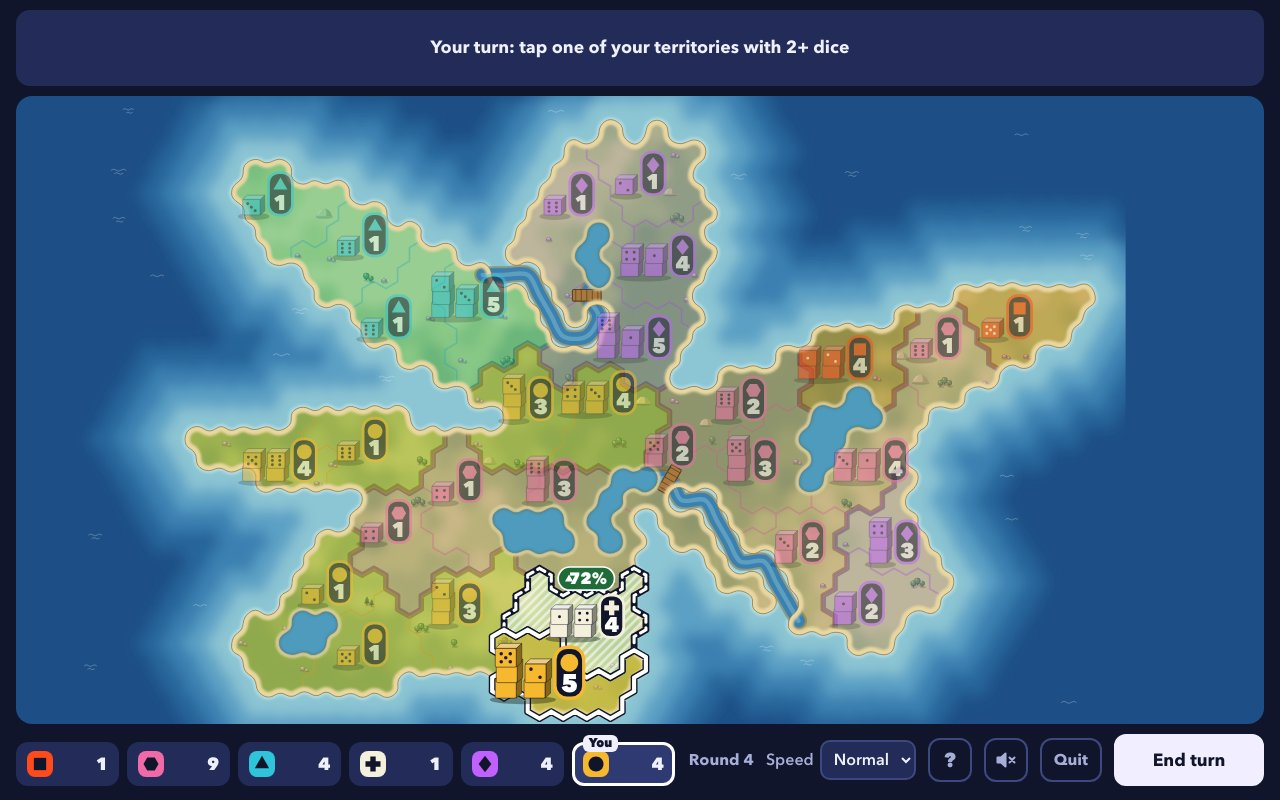
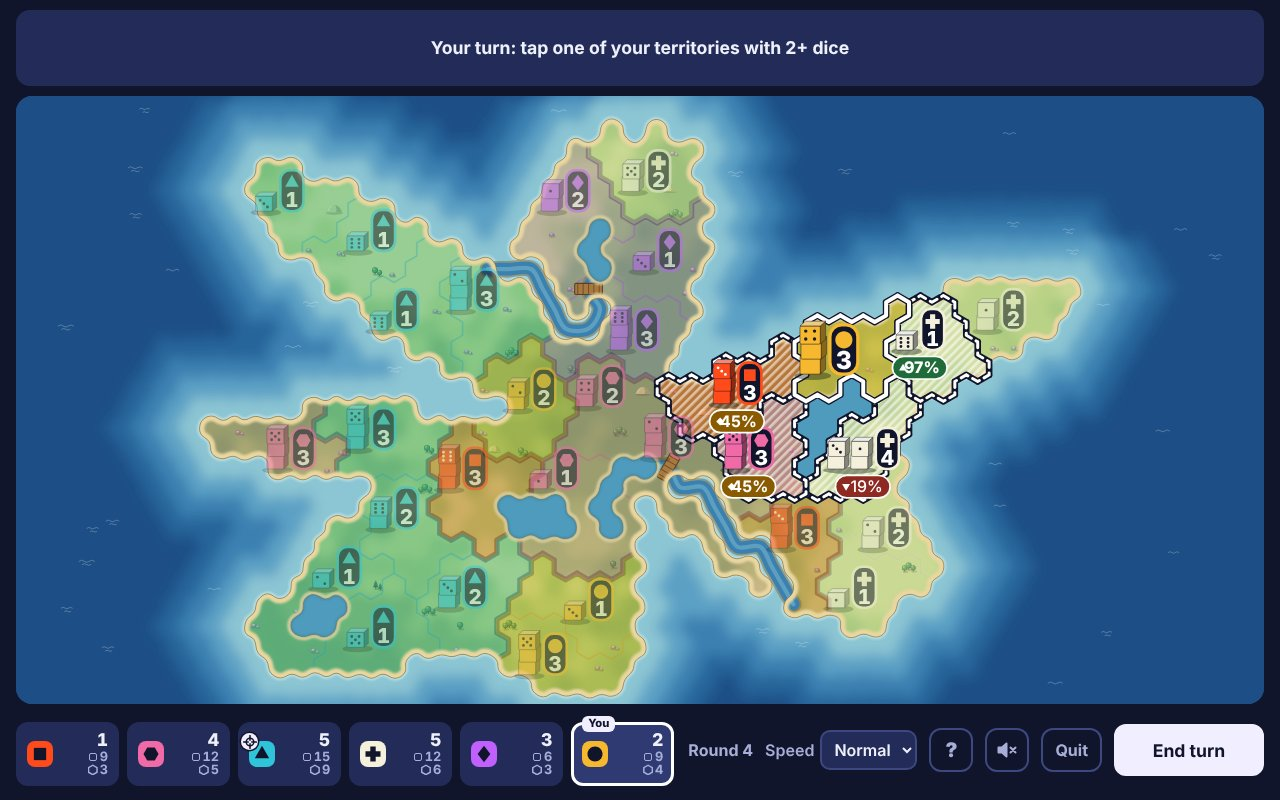
docs: refresh the README screenshots for the three AI levels
Claude-Session: https://claude.ai/code/session_0149jm37W41b9SQ4jRKi5NPY

diff --git a/README.md b/README.md
@@ -20,7 +20,7 @@
 </p>
 
 <p align="center">
-  <img src="docs/screenshots/game-desktop.jpg" alt="A game in progress on a laptop: a painted continent split into six players' territories, each with its dice; your stack of five is selected and the neighbour you can attack shows a 72% chance of winning" width="820">
+  <img src="docs/screenshots/game-desktop.jpg" alt="A game in progress on a laptop: a painted continent split into six players' territories, each with its dice; your stack of three is selected and the neighbours you can attack show your chance of winning each, from 19% to 97%" width="820">
 </p>
 
 ## How to play
